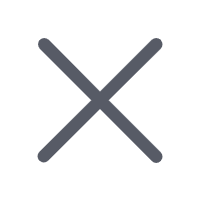
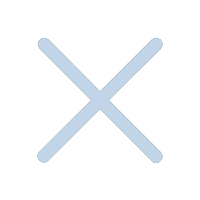
Make Button highlight when mouse hover on button.

Changed region(s): [[0.18, 0.18, 0.81, 0.81]]

diff --git a/GXMusic/Resource.h b/GXMusic/Resource.h
@@ -7,16 +7,16 @@
 #define IDS_ABOUTBOX                    101
 #define IDD_GXMUSIC_DIALOG              102
 #define IDR_MAINFRAME                   128
-// [2024/07/12] Button resource ID [ceobe][begin]
+
 #define IDB_GX_APP_CLOSE                200
 #define IDC_GX_MAIN_CLOSE               201
-// [2024/07/12] Button resource ID [ceobe][end]
+#define IDB_GX_APP_CLOSE_HOVER			202
 
 // Next default values for new objects
 // 
 #ifdef APSTUDIO_INVOKED
 #ifndef APSTUDIO_READONLY_SYMBOLS
-#define _APS_NEXT_RESOURCE_VALUE        130
+#define _APS_NEXT_RESOURCE_VALUE        131
 #define _APS_NEXT_COMMAND_VALUE         32771
 #define _APS_NEXT_CONTROL_VALUE         1000
 #define _APS_NEXT_SYMED_VALUE           101

diff --git a/GXMusic/TransparentButton.h b/GXMusic/TransparentButton.h
@@ -5,13 +5,22 @@ public:
 	CTransparentButton();
 	~CTransparentButton();
 
-	BOOL LoadPngImage(UINT nIDResource);
-
+	void SetNormalImage(UINT nIDResource);
+	void SetHoverImage(UINT nIDResource);
 
 private:
-	Gdiplus::Bitmap* m_pImage;
+	void LoadImageFromResource(UINT nIDResource, Gdiplus::Image** ppImage);
+
+private:
+	Gdiplus::Image* m_pNormalImage;
+	Gdiplus::Image* m_pHoverImage;
+	BOOL m_bHover;
+
+	
 
 protected:
+	afx_msg void OnMouseMove(UINT nFlags, CPoint point);
+	afx_msg void OnMouseLeave();
 	afx_msg void DrawItem(LPDRAWITEMSTRUCT lpDrawItemStruct);
 	afx_msg BOOL OnEraseBkgnd(CDC* pDC);
 	DECLARE_MESSAGE_MAP()

diff --git a/GXMusic/GXMusicDlg.cpp b/GXMusic/GXMusicDlg.cpp
@@ -106,11 +106,8 @@ BOOL CGXMusicDlg::OnInitDialog()
 	// Background setting
 	m_bgImage.Load(_T(".\\res\\GX_App_Background.png"));
 
-	// 加载PNG图片
-	if (!m_CloseButton.LoadPngImage(IDB_GX_APP_CLOSE))
-	{
-		AfxMessageBox(_T("Failed to load PNG image!"));
-	}
+	m_CloseButton.SetNormalImage(IDB_GX_APP_CLOSE);
+	m_CloseButton.SetHoverImage(IDB_GX_APP_CLOSE_HOVER);
 
 	return TRUE;  // 除非将焦点设置到控件，否则返回 TRUE
 }
